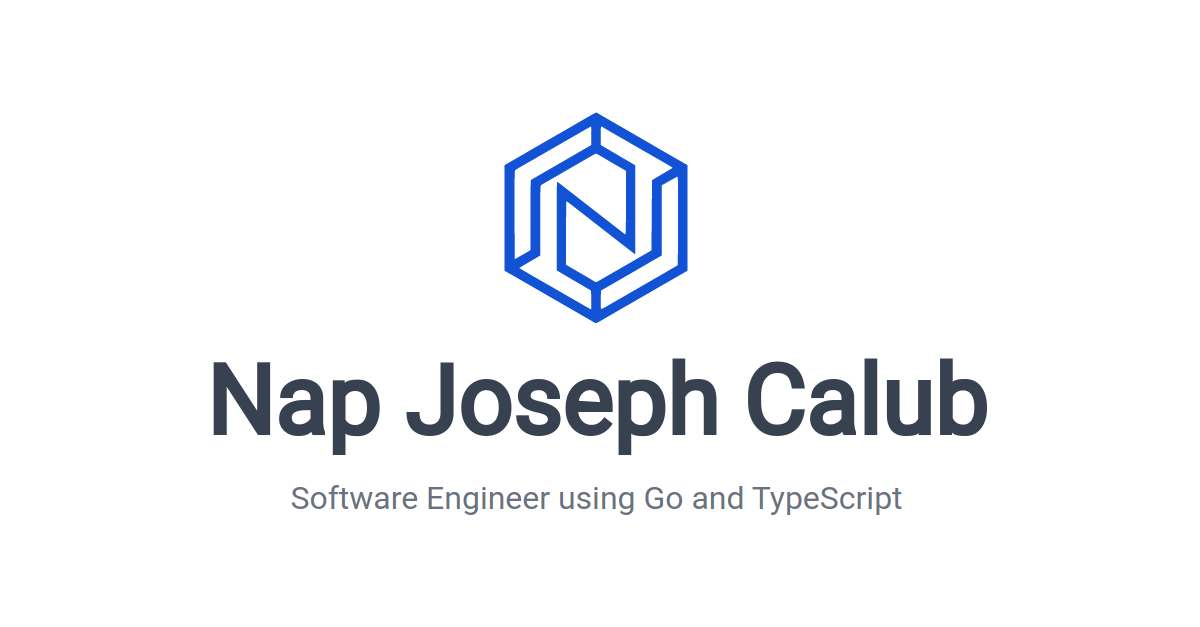
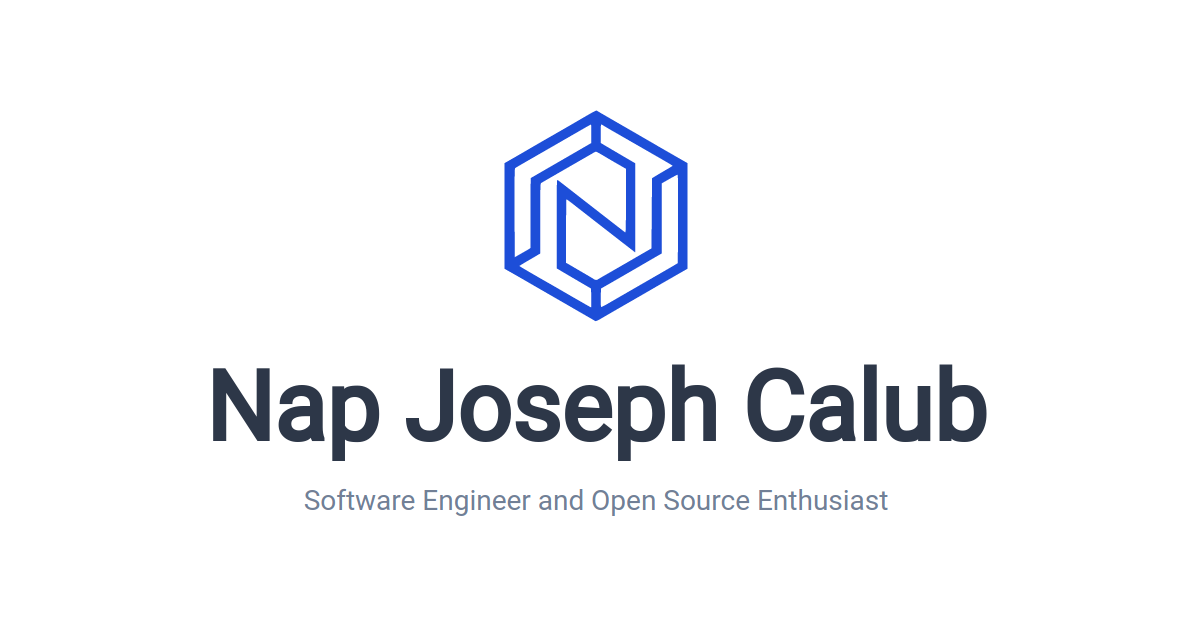
docs(napjoseph): update site description

diff --git a/personal/napjoseph/src/config.tsx b/personal/napjoseph/src/config.tsx
@@ -4,7 +4,7 @@ import { SiteConfig } from './models';
 
 export const SITE_CONFIG: SiteConfig = {
   title: 'Nap Joseph Calub',
-  description: 'Software Engineer using Go and TypeScript',
+  description: 'Software Engineer and Open Source Enthusiast',
   metadata: {
     defaultHeadData: {
       charSet: 'UTF-8',
